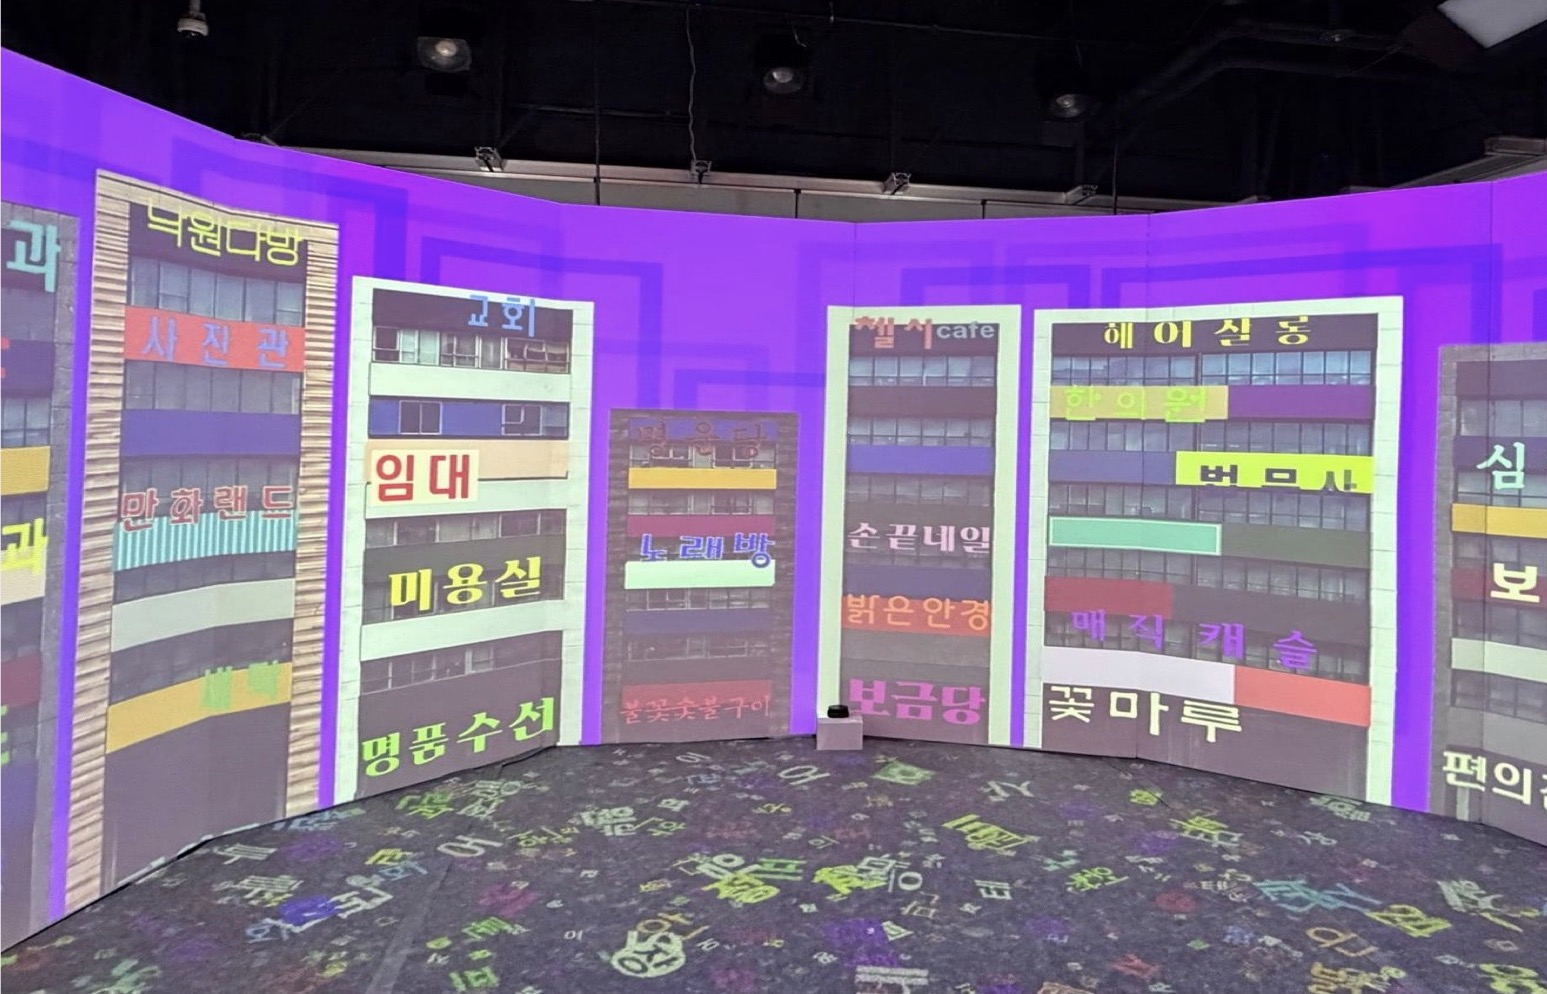
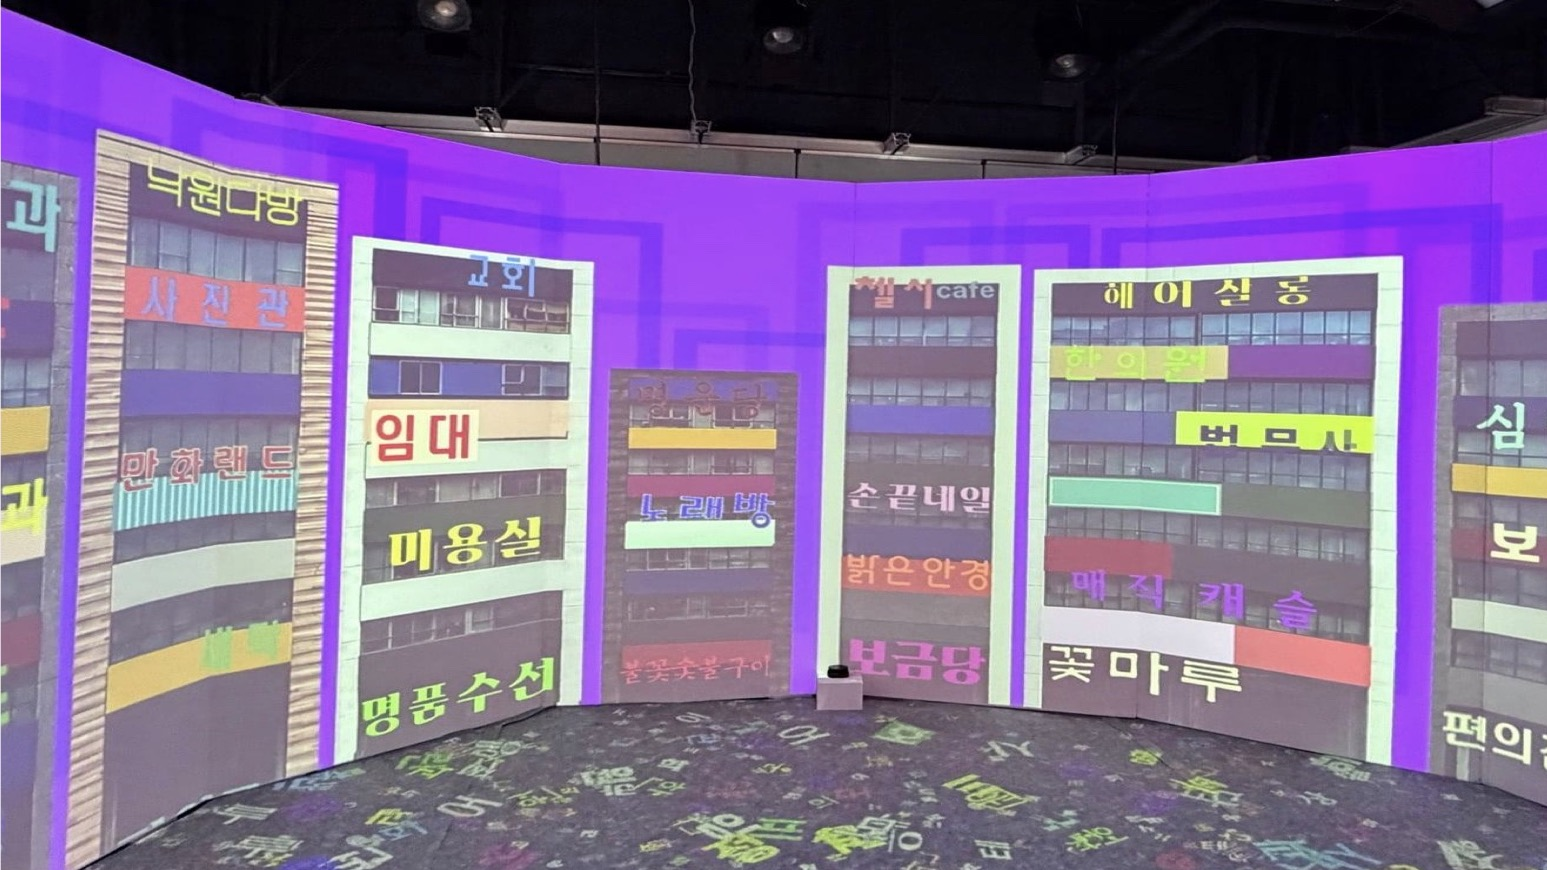
무제: 16:9 hero, separate slide viewer above the thumbnails

diff --git a/index.html b/index.html
@@ -158,7 +158,7 @@ body.pg .cover,body.pg main,body.pg .bar,body.pg .arrow,body.pg footer{display:n
 .vcap{display:flex;gap:12px;align-items:baseline;margin-top:14px;font-size:14px}.vcap b{font-weight:500;color:#5b625e}.vcap span{color:var(--muted)}
 .grid.shots{margin-top:28px;grid-template-columns:repeat(3,1fr)!important}.grid.shots img{aspect-ratio:16/9}
 .media.board img{border:1px solid var(--line)}
-.nk-row{display:grid;grid-template-columns:repeat(5,1fr);gap:10px;margin-top:28px}.nk-row img{display:block;width:100%;height:auto}.nk-row.front img,.nk-row.back img{border:1px solid var(--line)}
+.nk-row{display:grid;grid-template-columns:repeat(5,1fr);gap:10px;margin-top:28px}.nk-gap{margin-top:40px}.nk-row img{display:block;width:100%;height:auto}.nk-row.front img,.nk-row.back img{border:1px solid var(--line)}
 .deck{display:grid;grid-template-columns:repeat(5,1fr);gap:6px}
 .deck img{display:block;width:100%;aspect-ratio:16/9;object-fit:cover;cursor:zoom-in;border:1px solid var(--line);transition:transform .25s}
 .deck img:hover{transform:scale(1.06)}.deck.swap img{cursor:pointer}.deck.swap img.on{outline:2px solid #111;outline-offset:-2px}
@@ -340,7 +340,7 @@ footer h2{font-size:clamp(40px,6vw,72px);font-weight:700;letter-spacing:-.035em;
   <nav class="reel">
     <div class="col">
       <a href="#nakhwa" style="order:1"><img src="img/nakhwa/hero.jpg?v=2" alt=""><span>낙화원 落花願</span></a>
-      <a href="#muje" style="order:3"><img src="img/muje/hero.jpg" alt=""><span>무제 無諸</span></a>
+      <a href="#muje" style="order:3"><img src="img/muje/hero.jpg?v=2" alt=""><span>무제 無諸</span></a>
     </div>
     <div class="col">
       <a href="#jigu" style="order:2"><img src="img/works/jigu-70th.jpg" alt=""><span>지구화학 70주년 캠페인</span></a>
@@ -382,7 +382,7 @@ footer h2{font-size:clamp(40px,6vw,72px);font-weight:700;letter-spacing:-.035em;
       <h2 class="label">Planning</h2>
       <ul>
         <li><a class="row" href="#nakhwa" data-img="img/nakhwa/hero.jpg?v=2"><b>낙화원 落花願</b><span>Interactive media art</span><span>2026</span><img src="img/nakhwa/hero.jpg?v=2" alt="" loading="lazy"></a></li>
-        <li><a class="row" href="#muje" data-img="img/muje/hero.jpg"><b>무제 無諸</b><span>Interactive media art</span><span>2026</span><img src="img/muje/hero.jpg" alt="" loading="lazy"></a></li>
+        <li><a class="row" href="#muje" data-img="img/muje/hero.jpg?v=2"><b>무제 無諸</b><span>Interactive media art</span><span>2026</span><img src="img/muje/hero.jpg?v=2" alt="" loading="lazy"></a></li>
         <li><a class="row" href="#jigu" data-img="img/works/jigu-70th.jpg"><b>지구화학 70주년 캠페인</b><span>Campaign planning</span><span>2026</span><img src="img/works/jigu-70th.jpg" alt="" loading="lazy"></a></li>
       </ul>
       <h2 class="label">Poster</h2>
@@ -723,7 +723,9 @@ footer h2{font-size:clamp(40px,6vw,72px);font-weight:700;letter-spacing:-.035em;
   </div>
   <div class="sp">
     <div class="side">
-      <div class="media"><img class="jg-hero" src="img/muje/hero.jpg" data-home="img/muje/hero.jpg" alt="무제 전시 현장"></div>
+      <div class="media"><img src="img/muje/hero.jpg?v=2" alt="무제 전시 현장"></div>
+      <p class="cap">전시 현장 · 간판 버전, 360° 벽면과 바닥 만다라</p>
+      <div class="media nk-gap"><img class="jg-hero" src="img/muje/plan/01.jpg" alt="무제 결과발표 자료"></div>
       <div class="deck swap"><img src="img/muje/plan/01-t.jpg" data-full="img/muje/plan/01.jpg" alt="결과발표 1p" loading="lazy"><img src="img/muje/plan/02-t.jpg" data-full="img/muje/plan/02.jpg" alt="결과발표 2p" loading="lazy"><img src="img/muje/plan/03-t.jpg" data-full="img/muje/plan/03.jpg" alt="결과발표 3p" loading="lazy"><img src="img/muje/plan/04-t.jpg" data-full="img/muje/plan/04.jpg" alt="결과발표 4p" loading="lazy"><img src="img/muje/plan/05-t.jpg" data-full="img/muje/plan/05.jpg" alt="결과발표 5p" loading="lazy"><img src="img/muje/plan/06-t.jpg" data-full="img/muje/plan/06.jpg" alt="결과발표 6p" loading="lazy"><img src="img/muje/plan/07-t.jpg" data-full="img/muje/plan/07.jpg" alt="결과발표 7p" loading="lazy"><img src="img/muje/plan/08-t.jpg" data-full="img/muje/plan/08.jpg" alt="결과발표 8p" loading="lazy"><img src="img/muje/plan/09-t.jpg" data-full="img/muje/plan/09.jpg" alt="결과발표 9p" loading="lazy"><img src="img/muje/plan/10-t.jpg" data-full="img/muje/plan/10.jpg" alt="결과발표 10p" loading="lazy"><img src="img/muje/plan/11-t.jpg" data-full="img/muje/plan/11.jpg" alt="결과발표 11p" loading="lazy"><img src="img/muje/plan/12-t.jpg" data-full="img/muje/plan/12.jpg" alt="결과발표 12p" loading="lazy"><img src="img/muje/plan/13-t.jpg" data-full="img/muje/plan/13.jpg" alt="결과발표 13p" loading="lazy"><img src="img/muje/plan/14-t.jpg" data-full="img/muje/plan/14.jpg" alt="결과발표 14p" loading="lazy"><img src="img/muje/plan/15-t.jpg" data-full="img/muje/plan/15.jpg" alt="결과발표 15p" loading="lazy"><img src="img/muje/plan/16-t.jpg" data-full="img/muje/plan/16.jpg" alt="결과발표 16p" loading="lazy"><img src="img/muje/plan/17-t.jpg" data-full="img/muje/plan/17.jpg" alt="결과발표 17p" loading="lazy"><img src="img/muje/plan/18-t.jpg" data-full="img/muje/plan/18.jpg" alt="결과발표 18p" loading="lazy"><img src="img/muje/plan/19-t.jpg" data-full="img/muje/plan/19.jpg" alt="결과발표 19p" loading="lazy"><img src="img/muje/plan/20-t.jpg" data-full="img/muje/plan/20.jpg" alt="결과발표 20p" loading="lazy"><img src="img/muje/plan/21-t.jpg" data-full="img/muje/plan/21.jpg" alt="결과발표 21p" loading="lazy"><img src="img/muje/plan/22-t.jpg" data-full="img/muje/plan/22.jpg" alt="결과발표 22p" loading="lazy"><img src="img/muje/plan/23-t.jpg" data-full="img/muje/plan/23.jpg" alt="결과발표 23p" loading="lazy"><img src="img/muje/plan/24-t.jpg" data-full="img/muje/plan/24.jpg" alt="결과발표 24p" loading="lazy"></div>
       <p class="cap">결과발표 자료 24p · 썸네일에 마우스를 올리면 위에 크게 보여요</p>
     </div>
